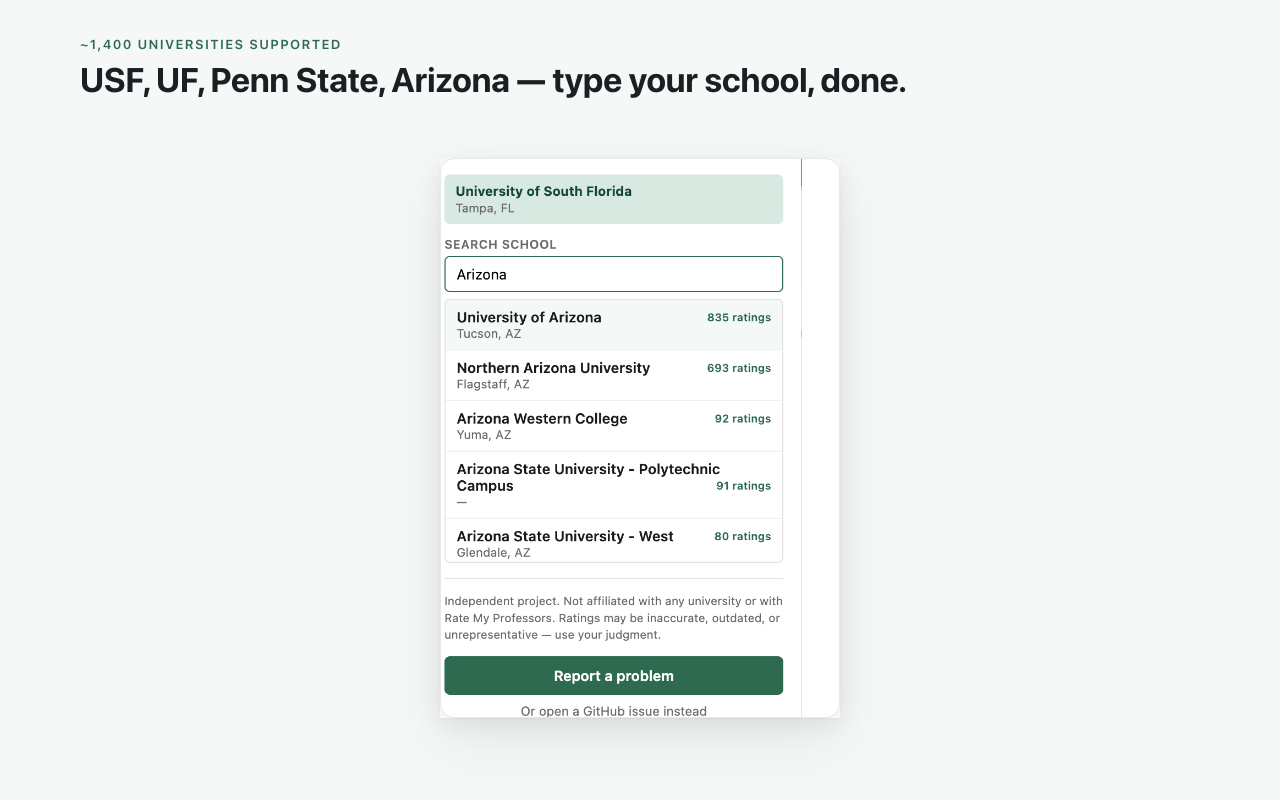
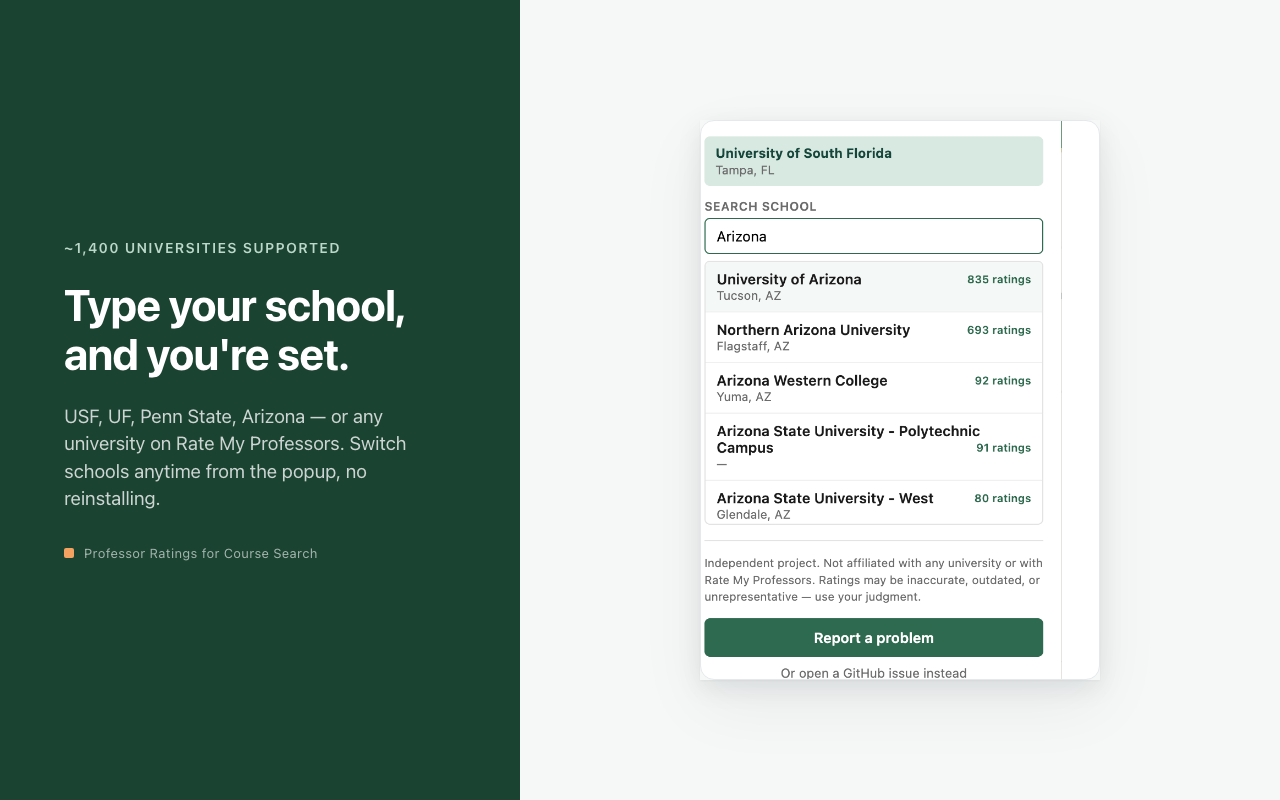
chore: unify slide 4 into split-panel layout
All 5 listing slides now share the green split-panel layout.

diff --git a/listing/slide-4.html b/listing/slide-4.html
@@ -4,11 +4,15 @@
 <title>Slide 4 — Many schools</title>
 <link rel="stylesheet" href="style.css">
 <style>
-  /* Card snug to popup — drop bottom Banner bleed.
+  /* Split layout — text panel left, school-picker popup centered in visual.
      Source: arizona.png (3396×1722). */
   .card {
     width: 400px;
     height: 560px;
+    position: absolute;
+    top: 50%;
+    left: 50%;
+    transform: translate(-50%, -50%);
   }
   .card .shot {
     width: 100%;
@@ -18,12 +22,14 @@
     background-position: -1507px -121px;
   }
 </style></head><body>
-<div class="stacked">
-  <div class="head">
+<div class="split">
+  <div class="text">
     <span class="eyebrow">~1,400 universities supported</span>
-    <h1>USF, UF, Penn State, Arizona — type your school, done.</h1>
+    <h1>Type your school, <br>and you're set.</h1>
+    <p>USF, UF, Penn State, Arizona — or any university on Rate My Professors. Switch schools anytime from the popup, no reinstalling.</p>
+    <div class="brand-mark">Professor Ratings for Course Search</div>
   </div>
-  <div class="body">
+  <div class="visual">
     <div class="card shadow"><div class="shot"></div></div>
   </div>
 </div>